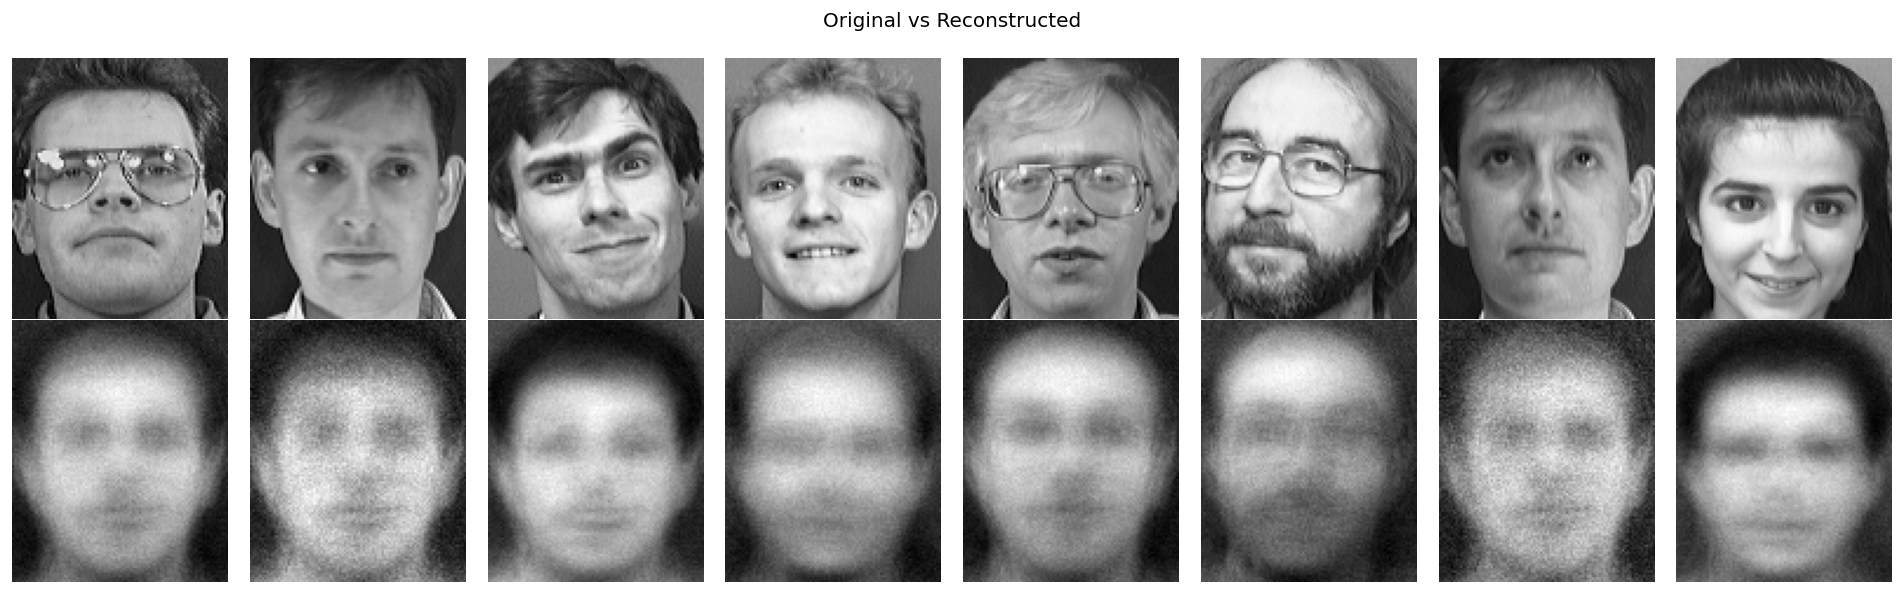
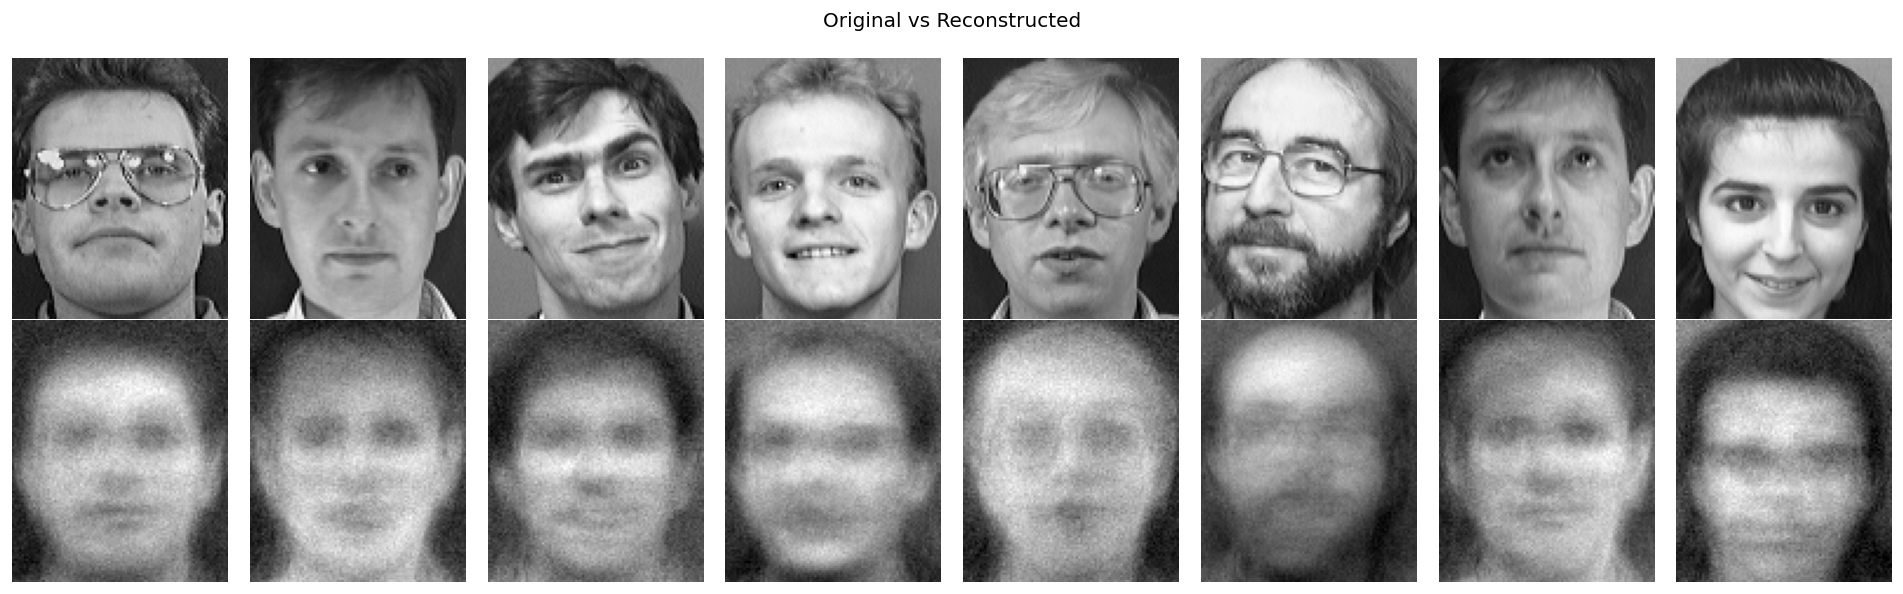
auto encoder liner

Changed region(s): [[0.0, 0.5152, 1.0, 1.0], [0.0, 0.7879, 0.062, 0.9091]]

diff --git a/autoencoder.py b/autoencoder.py
@@ -1,6 +1,5 @@
 import numpy as np
 
-
 class Autoencoder:
 
     def __init__(self, input_dim, latent_dim, lr=1e-3, seed=42):
@@ -9,7 +8,6 @@ class Autoencoder:
         self.lr         = lr
         self.rng        = np.random.default_rng(seed)
 
-        # Glorot uniform init
         def glorot(fan_in, fan_out):
             limit = np.sqrt(6.0 / (fan_in + fan_out))
             return self.rng.uniform(-limit, limit, (fan_in, fan_out))
@@ -20,61 +18,39 @@ class Autoencoder:
         self.W2 = glorot(latent_dim, input_dim)
         self.b2 = np.zeros((1, input_dim))
 
-    # ---------------- Activations ---------------- #
-
-    def _relu(self, x):
-        return np.maximum(0.0, x)
-
-    def _relu_grad(self, x):
-        return (x > 0).astype(x.dtype)
-
-    def _sigmoid(self, x):
-        return 1.0 / (1.0 + np.exp(-np.clip(x, -500, 500)))
-
-    def _sigmoid_grad(self, x):
-        s = self._sigmoid(x)
-        return s * (1 - s)
-
-    # ---------------- Forward ---------------- #
 
     def forward(self, X):
         self.z1  = X @ self.W1 + self.b1
-        self.a1  = self._relu(self.z1)
-
-        self.z2  = self.a1 @ self.W2 + self.b2
-        self.out = self._sigmoid(self.z2)
-
-        return self.out
-
-    # ---------------- Backward (SGD) ---------------- #
+        self.z2  = self.z1 @ self.W2 + self.b2
+        return self.z2
 
     def backward(self, X, out):
         n = X.shape[0]
 
-        # Loss gradient (MSE)
+        # MSE loss gradient
         dout = 2.0 * (out - X) / n
 
         # Decoder gradients
-        dz2 = dout * self._sigmoid_grad(self.z2)
-        dW2 = self.a1.T @ dz2
-        db2 = dz2.sum(axis=0, keepdims=True)
+        dW2 = self.z1.T @ dout
+        db2 = np.sum(dout, axis=0, keepdims=True)
 
         # Encoder gradients
-        da1 = dz2 @ self.W2.T
-        dz1 = da1 * self._relu_grad(self.z1)
+        dz1 = dout @ self.W2.T
         dW1 = X.T @ dz1
-        db1 = dz1.sum(axis=0, keepdims=True)
+        db1 = np.sum(dz1, axis=0, keepdims=True)
 
-        # ---------------- SGD UPDATE ---------------- #
+        # SGD updates
         self.W2 -= self.lr * dW2
         self.b2 -= self.lr * db2
 
         self.W1 -= self.lr * dW1
         self.b1 -= self.lr * db1
 
-    # ---------------- Training ---------------- #
 
     def fit(self, X, epochs=100, batch_size=32, verbose=True):
+        self.mean = np.mean(X, axis=0)
+        X = X - self.mean
+
         n = X.shape[0]
 
         for epoch in range(epochs):
@@ -94,15 +70,14 @@ class Autoencoder:
             if verbose and epoch % 10 == 0:
                 print(f"Epoch {epoch:4d} | Loss = {total_loss / n:.6f}")
 
-    # ---------------- Utilities ---------------- #
+    # ---------------- Encode / Decode ---------------- #
 
     def encode(self, X):
-        z1 = X @ self.W1 + self.b1
-        return self._relu(z1)
+        X = X - self.mean
+        return X @ self.W1 + self.b1
 
     def decode(self, Z):
-        z2 = Z @ self.W2 + self.b2
-        return self._sigmoid(z2)
+        return Z @ self.W2 + self.b2 + self.mean
 
     def predict(self, X):
         return self.forward(X)
